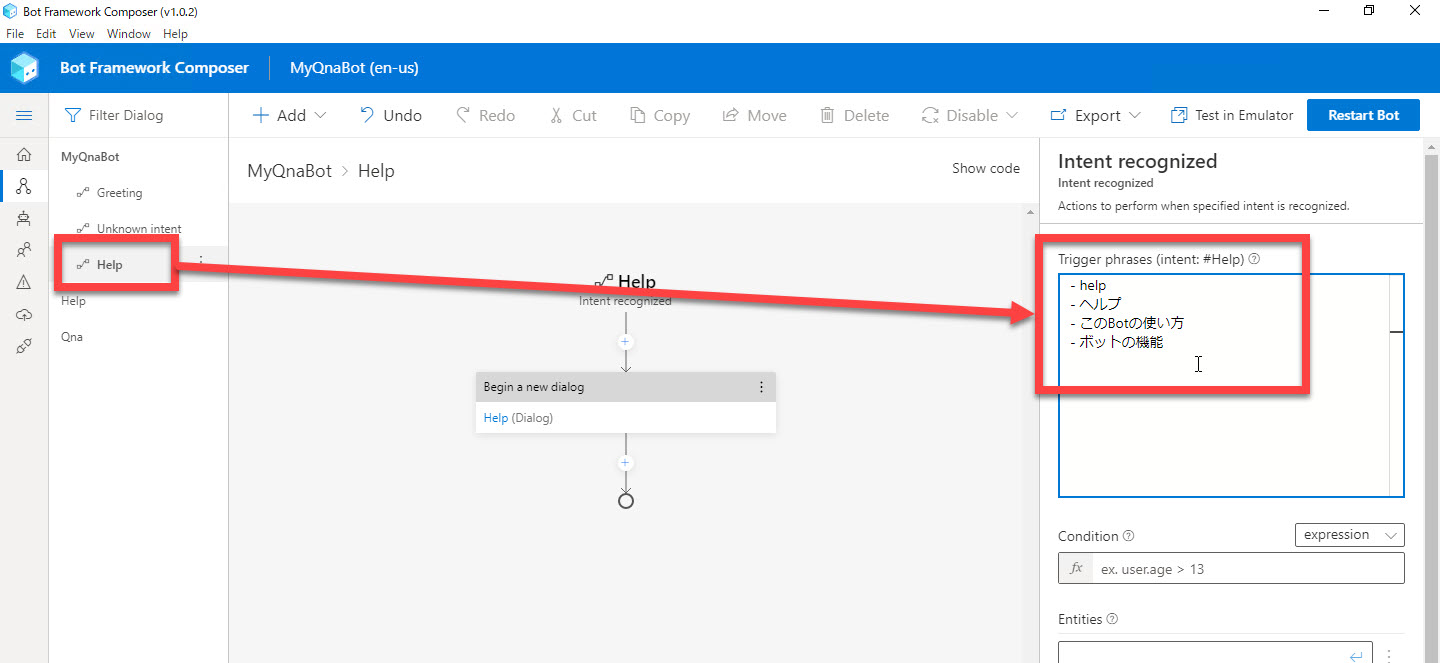
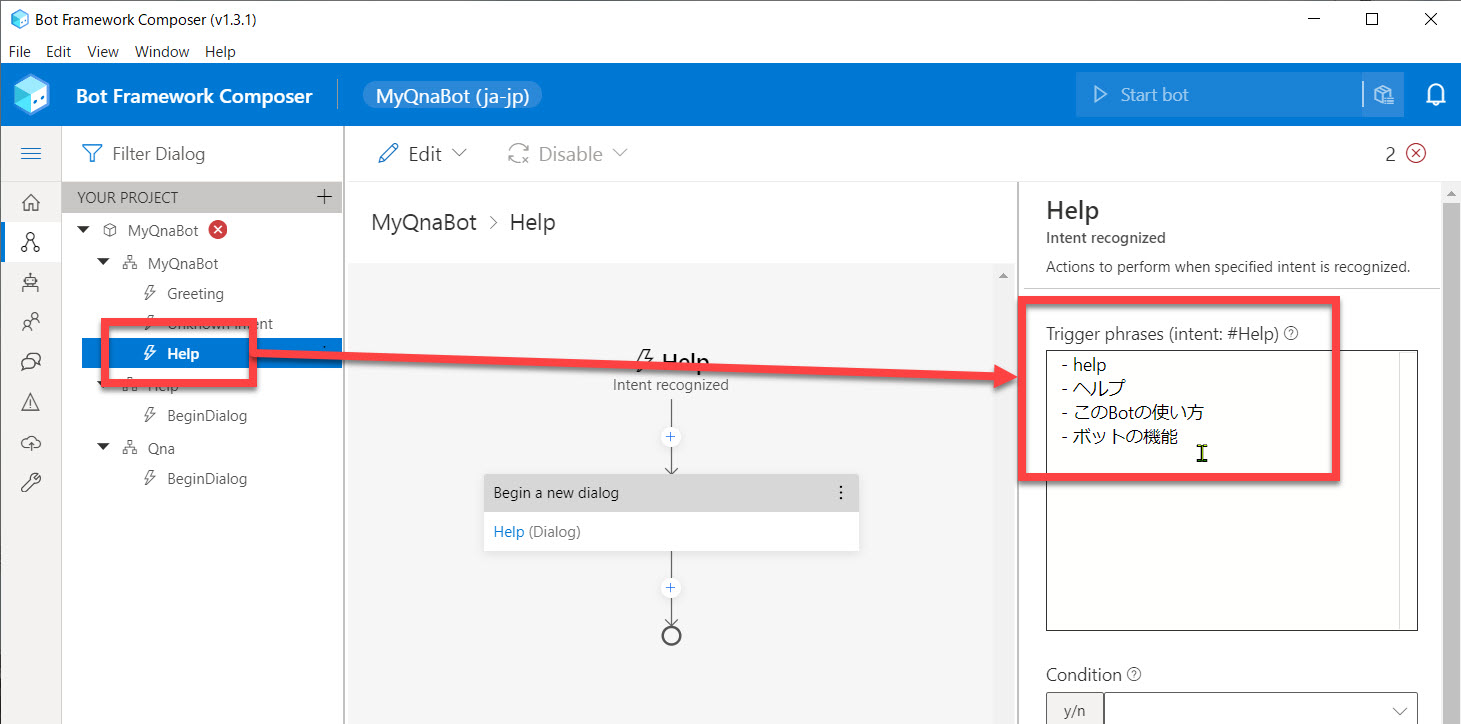
v1.3.1 対応

diff --git a/docs/06_composer_luis.md b/docs/06_composer_luis.md
@@ -2,64 +2,44 @@
 
 [前のステップ](05_composer_qna.md) で、QnA Maker を使った Q&A 機能を Bot アプリケーションに 追加しました。
 
-このステップでは、[LUIS (Language Understanding)](https://azure.microsoft.com/ja-jp/services/cognitive-services/language-understanding-intelligent-service/) を使って、ユーザーの意図を予測するように変更します。  
-（[Bot Framework Composer の基礎 - 2](03_composer_basic2.md) では、正規表現でユーザーの意図を認識しました）
+このステップでは、[**Language Understanding** (LUIS)](https://azure.microsoft.com/ja-jp/services/cognitive-services/language-understanding-intelligent-service/) を使って、ユーザーの意図を予測するように変更します。  
+（[Bot Framework Composer の基礎 - 2](03_composer_basic2.md) では、**正規表現** でユーザーの意図を認識しました）
 
-[1. LUIS 利用の準備 (Settings ファイルの変更)](#luis-%e5%88%a9%e7%94%a8%e3%81%ae%e6%ba%96%e5%82%99-settings-%e3%83%95%e3%82%a1%e3%82%a4%e3%83%ab%e3%81%ae%e5%a4%89%e6%9b%b4)  
-[2. Recognizer Type の変更](#recognizer-type-%e3%81%ae%e5%a4%89%e6%9b%b4)  
-[3. help Trigger のフレーズの入力](#help-trigger-%e3%81%ae%e3%83%95%e3%83%ac%e3%83%bc%e3%82%ba%e3%81%ae%e5%85%a5%e5%8a%9b)  
-[4. LUIS への接続と Bot の再起動](#luis-%e3%81%b8%e3%81%ae%e6%8e%a5%e7%b6%9a%e3%81%a8-bot-%e3%81%ae%e5%86%8d%e8%b5%b7%e5%8b%95)  
-[5. Bot Framework Emulator で動作確認](#bot-framework-emulator-%e3%81%a7%e5%8b%95%e4%bd%9c%e7%a2%ba%e8%aa%8d)  
+[1. Recognizer Type の変更](#recognizer-type-の変更)  
+[2. help Trigger のフレーズの入力](#help-trigger-のフレーズの入力)  
+[3. Language Understanding アプリケーションの作成](#language-understanding-アプリケーションの作成)  
+[4. Language Understanding への接続](#language-understanding-への接続)  
+[5. Bot Framework Emulator で動作確認](#help-trigger-のフレーズの入力)  
 
-LUIS (Language Understanding) とは、自然言語の入力に対して、
+Language Understanding (LUIS) とは、自然言語による入力に対して、
 
 - 全体の意味を予測
 - 関連性のある詳細な情報を引き出す
 
 サービスです。  
 
-このハンズオンでは、ヘルプを呼び出す範囲で LUIS を使用するだけなので効果が実感しづらいですが、実装手順を理解することを目的とします。
-
 > "Language Understanding" はプレビューでは "LUIS" と呼ばれていました。  
-> GA して Language Understanding と名称が変わりましたが、ドキュメントやライブラリにも LUIS という表記が残っていたり、サービスが GA した後も LUIS と呼ばれることが多くあります。
+> GA して Language Understanding と名称が変わりましたが、ドキュメントやライブラリにも LUIS という表記が残っていたり、GA 後も LUIS と呼ばれることが多くあります。
 
-> Bot Framework Composer v1.0.2 では日本語対応した LUIS アプリケーションは作成されません。  
-> 必ず "en-us" になります。  
->
-> 以下では、今後の日本語対応を見越した手順を記載しています。
-
----
-
-## LUIS 利用の準備 (Settings ファイルの変更)
-
-Bot Framework Composer は、デフォルトの言語が "**en-us**" です。  
-すでに確認したように、このままでも日本語を問題なく利用できますが、LUIS を利用するにはまず言語の変更しておく必要があります。  
-手順を忘れることがないように最初に行っておきます。
-
-1. Bot Framework Composer で [**Settings**] - [**Bot Settings**] を選択します。
-
-2. [**luis**] セクションの [**defaultLanguage**] を "**ja-jp**" に変更します。  
-
-   > あとで動作確認した際に Help Intent に該当する入力を正しく処理できない場合は、"**en-us**" に戻してみてください。
-
-   <img src="./images/06/bfcomp_settings_luis.jpg" width="540px" />
-
-3. ここで一緒に [**luis**] -[**name**] を "**MyQnaBot**" に変更しておきます。（必須ではありません）
+> このハンズオンでは、ヘルプを呼び出す範囲でのみ Language Understanding を使用するので機能が実感しづらいですが、実装手順を理解することを目的とします。
 
 ---
 
 ## Recognizer Type の変更
 
-"MyQnaBot" の **Recognizer Type** (＝ユーザー意図の識別方法) は、[Bot Framework Composer の基礎 - 2](03_composer_basic2.md) では "Regular Expression" にしました。
+"MyQnaBot" の **Recognizer Type** (＝ユーザー意図の識別方法) は、[Bot Framework Composer の基礎 - 2](03_composer_basic2.md) では "Regular expression recognizer" にしました。
 
-ここで "**LUIS**" に変更して、もう少し自然な言語処理でユーザー意図を識別するように変更します。
+ここで Language Understanding に変更して、もう少し自然な言語処理でユーザー意図を識別するように変更します。
 
-1. [**Design Flow**] - [**MyQnaBot**] を選択して、Property の [**Recognizer Type**] を "**LUIS**" に変更します。
-
-   ![](./images/06/bfcomp_set_rectype.jpg)
-
-> LUIS は、このハンズオンで利用するよりもさらに高度な言語処理が可能です。  
-> このハンズオンでは LUIS 利用方法を理解するために手順に組み込みました。
+1. [**MyQnaBot**] ダイアログを選択して、Property の [**Recognizer Type**] を "**Default recognizer**" に変更します。
+   
+   <img src="./images/06/bfcomp_set_rectype.jpg" width="540px" />  
+   
+   > この変更により、[MyQnaBot] ダイアログにエラーが表示されるようになります。  
+   > これはまだ [Project Settings] で Language Understanding の設定を行っていないためです。  
+   > あとの手順でエラーを解消するので、ここではエラー表示が残ったままでかまいません。
+   >
+   > <img src="./images/06/bfcomp_recerror.jpg" width="360px" />
 
 ---
 
@@ -78,7 +58,7 @@ help ダイアログにコンテキストを切り替える契機となるフレ
    - ボットの機能
    ```
 
-   ![](./images/06/bfcomp_help_trigger_phrases.jpg)
+   <img src="./images/06/bfcomp_help_trigger_phrases.jpg" width="540px" />
 
    "Trigger Phrases" では、類義語を登録したり、英語・日本語を組み合わせると認識精度が上がることがあります。  
    例えば  
@@ -90,50 +70,68 @@ help ダイアログにコンテキストを切り替える契機となるフレ
    などです。  
    こうすると、"このボットの使い方" や "Botの機能を教えて" などの表現の揺らぎを吸収してくれます。
 
-   > Bot Framework Composer v1.0.1 では、上記の日本語対応ができていません。  
-   > このあとの操作では必ず "en-us" の LUIS アプリケーションが作成されます。
-   >
-   > Preview では "ja-jp" の LUIS アプリケーションを生成できていたため、今後修正されるものと考えて上記の手順を記載しています。
-
 3. [**Condition**] に以下の入力をします。
 
    ```txt
    #Help.Score > 0.8
    ```
 
-   ユーザーの入力が "Help" インテントである可能性が 80% より高い場合に Help ダイアログにコンテキストを切り替えることを意味します。  
+   Language Understanding での推論の結果、ユーザーの入力が "Help" インテントである可能性が 80% より高い場合に Help ダイアログにコンテキストを切り替えることを意味します。  
    それ以下の場合は、ユーザーの入力は "Unknown intent" で処理されるので、Qna ダイアログに切り替えられます。
 
    ![](./images/06/bfcomp_help_trigger_condition.jpg)
 
 ---
 
-## LUIS への接続と Bot の再起動
+## Language Understanding アプリケーションの作成
 
-Bot アプリケーションを LUIS に接続して Bot 再起動します。
+Language Understanding アプリケーションを作成して、接続に必要な情報を取得します。
 
 1. ブラウザーで [**LUIS**](https://www.luis.ai/) に接続してログイン（またはサインイン）します。
 
-2. [**User Settings**] - [**Settings**] を選択します。
+2. [**User Profile**] を選択して開きます。  
 
-   ![](./images/06/luis_user_settings_1.jpg)
-   ![](./images/06/luis_user_settings_2.jpg)
+3. "**Authoring Resource**" がすでに設定済みであり、このハンズオンでも同じリソースをそのまま使用してよい場合は、以下の Authoring Resource の選択・新規作成の手順は不要です。  
+   > 以下では新規の Authoring Resource を作成する手順です。  
+   > ハンズオンでは既存のリソースを使用せずに、新規にリソースを作成することをお勧めします。
 
-3. [**Starter_Key**] セクションの [**Primary Key**] をクリップボードにコピーします。  
-   この後すぐに使います。
+4. リソースを選択、または新規作成する場合は、[**Change authoring resouce**] を選択します。  
+   <img src="./images/06/luis_userprofile.jpg" width="400px" />
 
-   ![](./images/06/luis_user_settings_3.jpg)
+5. 既存の "Authoring Resource" を使用する場合は、適切な subscription および resouce をリストから選択して [Done] をクリックします。
+   Authoring Resource を新規作成する場合は [**Create a new authoring resource**] を選択します。  
+   <img src="./images/06/luis_chooseauthorresource.jpg" width="480px" />
 
-4. Bot Framework Composer に戻って、[**Start Bot**] または [**Restart Bot**] をクリックします。
+6. Authoring Resource を新規作成する場合は、[**Create new Azure Cognitive Services account**] で適切な選択・入力をして [Done] をクリックします。  
+   <img src="./images/06/luis_create_new_cogaccount.jpg" width="480px" />
 
-5. [**Publish LUIS models**] ダイアログが開いたら、[**LUIS Primary Key**] に LUIS ポータルでコピーした "Primary Key" を貼り付けて、[**OK**] をクリックします。
+7. 使用する Language Understanding が決まったら、[User Profile] で [**Manage authoring resources**] を選択します。  
+   <img src="./images/06/luis_userprofile_manageresource.jpg" width="400px" />
 
-   ![](./images/06/bfcomp_publish_luis_models.jpg)
+8. 使用する Azure subscripition およびリソースを指定して [**Primary key**] の値をクリップボードにコピーします。  
+   また [**Location**] を確認しておきます。  
+   <img src="./images/06/luis_copy_author_primarykey.jpg" width="480px" />
 
-6. [**Test in Emulator**] が表示されれば、LUIS への発行と Bot の再起動が完了しています。
+---
 
-   > "ja-jp" の LUIS アプリケーションを生成できるようになると、例えば「このボットの使い方」のような入力でも Help Intent で処理されるようになります。  
-   > Bot Framework Composer 1.0.1 では "en-us" の LUIS アプリケーションのみ生成されます。
+## Language Understanding への接続
+
+Bot アプリケーションを Language Understanding に接続して Bot を起動します。
+
+1. Bot Framework Composer に戻って、[**Project Settings**] - [MyQnaBot] を選択します。  
+   表示形式は [**Advanced Settings View**] を **オフ** にします。
+
+2. [**LUIS authoring key**] に Language Understanding の手順の最後でコピーした **Authoring key** を貼り付けます。  
+   また、そこで確認した **Location** を [**LUIS region**] で選択します。  
+   <img src="./images/06/bfcomp_projset_luis.jpg" width="540px" />
+
+3. Bot Framework Composer に戻って、[**Start Bot**] または [**Restart Bot**] をクリックします。
+
+
+5. [**Test in Emulator**] が表示されれば、Language Understanding への発行と Bot の再起動が完了しています。
+
+   > "ja-jp" の LUIS アプリケーションに接続すると、例えば「このボットの使い方」のような日本語入力でも Help Intent で処理されるようになります。  
+
 
 ---
 
@@ -144,9 +142,9 @@ Bot アプリケーションを LUIS に接続して Bot 再起動します。
    - ヘルプ
    - サポートされる言語は何
 
-   など、LUIS または QnA Maker で処理されます。
+   などを入力します。
 
-   ![](./images/06/bfemu_test_qna_and_luis.jpg)
+   <img src="./images/06/bfemu_test_qna_and_luis.jpg" width="540px" />
 
 2. "ヘルプ" などと入力した際には LUIS で入力の意図を類推していることを確認します。
  

diff --git a/docs/03_composer_basic2.md b/docs/03_composer_basic2.md
@@ -22,24 +22,18 @@
 
 Bot Framework Composer は、
 
-- Composer の UI の言語
 - Bot が対象とする言語
+- Composer の UI の言語
 
 を変更可能です。
 
-Composer の UI 言語を変更するには、[Composer Settings] - [Application Settings] で先頭の [Composer UI] を変更します。
-
-<img src="./images/03/bfcomp_compsetting_uilang.jpg" width="480px" />
-
-> このハンズオン資料では、Composer UI は英語のままで進めます。
-
-プロジェクトの Bot が対象とする言語は、以下の操作で変更します。
+プロジェクトの **Bot が対象とする言語** は、以下の操作で変更します。
 
 1. [**Project Settings**] で [**Bot language**] セクションまで進む
 2. [**Manage bot languages**] を選択  
    
    <img src="./images/03/bfcomp_projset_managelang.jpg" width="480px" />
-3. [To which language ～] で "Japanese (Japan)" を選択して、さらに [When done, switch to the newly language ～] を選択する。  
+3. [**To which language ～**] で "**Japanese (Japan)**" を選択して、さらに [**When done, switch to the newly language ～**] を選択する。  
 最後に [Done] で言語を確定  
    <img src="./images/03/bfcomp_managelang_jajp.jpg" width="480px" />
 
@@ -47,6 +41,14 @@ Composer の UI 言語を変更するには、[Composer Settings] - [Application
    [**Set it as default language**] を選択します。これで Bot アプリケーションのデフォルト言語が日本語になります。  
    
    <img src="./images/03/bfcomp_default_lang_jajp.jpg" width="480px" />
+
+<br />
+
+**Composer の UI 言語** を変更するには、[Composer Settings] - [Application Settings] で先頭の [Composer UI] を変更します。
+
+<img src="./images/03/bfcomp_compsetting_uilang.jpg" width="480px" />
+
+> このハンズオン資料では、Composer UI は英語のままで進めます。
 
 ---
 
